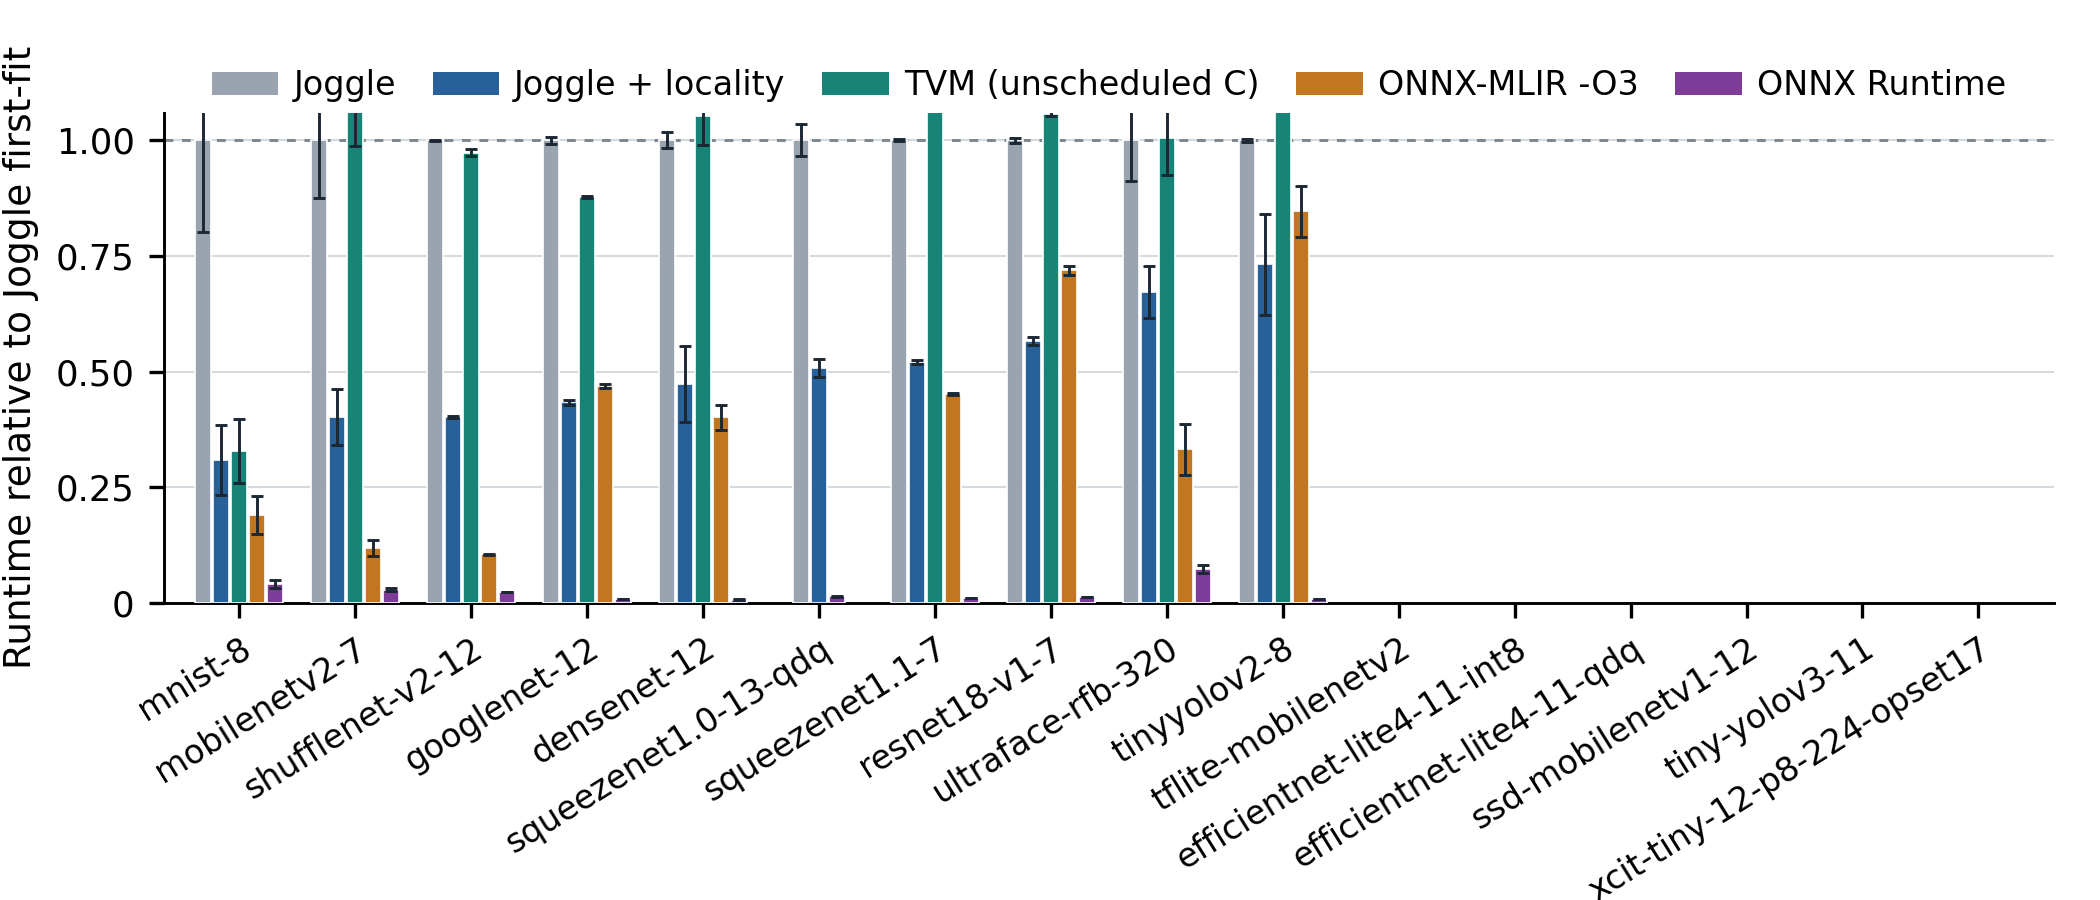
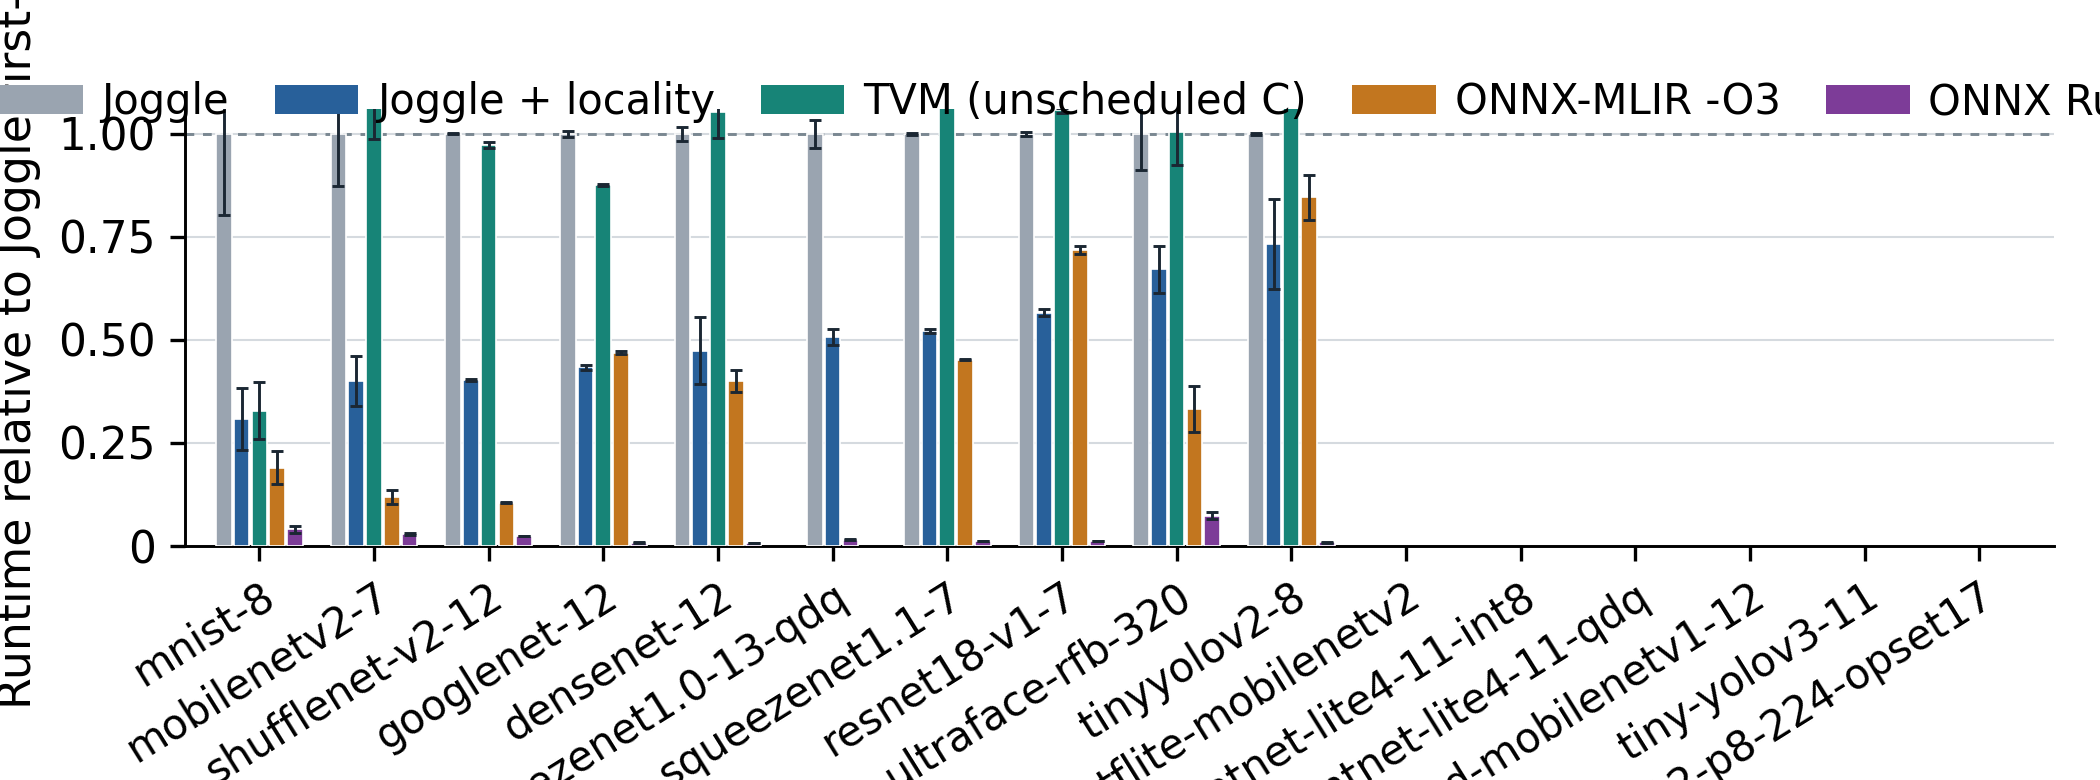
Make the refactoring claim match what the four cases show
The sixth objection was that the paper's survival claim rests on four
constructed refactorings and that the claim does not survive its own cases. It
was right, and the text said "survives source refactorings that break an
equivalent patch", which reads as a general result.

The four cases do not support that. Renaming a private helper ties, because both
routes still produce the validated plan. Renaming the capacity binding lets the
patch apply and the module boundary then rejects the unknown binding, which is a
validation win rather than an edit-survival one. Renaming nine local bindings
together is the clean case. Rewriting the selection guard is inapplicable to the
patch and makes the derivation's matcher reject the input, so it fails on both
sides. One clean win out of four.

The section now says so, case by case, and states the boundary the evidence
supports: the recipe reproduces the validated plan where a textual patch cannot
be applied at all, not wherever the surrounding source has changed. The abstract
drops the plural "refactorings" for the narrower mechanism-level statement.

A distribution over many scripted refactorings is what would settle this
properly, and it is not measured here: the existing control records six cases
and no generator produces more, so building one is separate work rather than a
rewording of what exists.

Fitting the correction again cost a page, and the conclusion paid for it: it now
[…]

Changed region(s): [[0.0, 0.0, 1.0, 1.0], [0.4024, 0.9846, 0.4333, 1.0]]

diff --git a/paper/submission/main.tex b/paper/submission/main.tex
@@ -25,9 +25,9 @@ representation shared with the programs they compile. A compiler function can be
 derived with its private helper closure, a single internal decision revised, and
 the resulting copy executed on a separate subject while the original remains
 callable and verified. The compiler validates each revision and can roll it back,
-so a derived procedure remains reproducible. It also survives source refactorings
-that break an equivalent patch, so a user or an agent can propose revisions with
-the same tools. Across widely used models, one source-defined locality policy
+so a derived procedure remains reproducible. A structurally addressed derivation also
+reproduces the validated plan where a textual patch cannot be applied at all, so
+a user or an agent can propose revisions with the same tools. Across widely used models, one source-defined locality policy
 reduces the run time of generated code on each of them, by $1.36\times$ to
 $3.24\times$. It requires no compiler rebuild and matches or beats TVM's
 unscheduled C target wherever that lowering could be built and validated.
@@ -708,15 +708,18 @@ A source-patch control extracts the same planner and private helpers, applies
 the same rule as a one-hunk patch, avoids rebuilding Joggle, and produces the
 same plan, so the storage reduction follows from the policy rather than from
 structural derivation. The distinction appears under four constructed
-refactorings, each editing something the change never mentions. Renaming a
-private helper leaves both routes with the same validated plan. Renaming the
-capacity binding still lets the patch apply, after which the module boundary
-rejects the unknown binding while the derivation is unaffected. Renaming nine
-local bindings together leaves the patch unable to apply, and rewriting the
-selection guard is likewise inapplicable, whereas the derivation either
-reproduces the validated plan or rejects the input and emits no output. The recipe follows def-use
-relationships rather than text, so it reproduces the validated plan exactly
-where the patch cannot be applied.
+refactorings, each editing something the change never mentions, and the count
+matters: only one of them separates the routes cleanly. Renaming a private
+helper ties, since both routes still produce the validated plan. Renaming the
+capacity binding lets the patch apply but the module boundary then rejects the
+unknown binding, which is a validation win rather than an edit-survival one.
+Renaming nine local bindings together is the clean case: the patch cannot apply
+while the derivation reproduces the validated plan. Rewriting the selection
+guard is inapplicable to the patch and makes the derivation's matcher reject the
+input, so that case fails on both sides. The recipe follows def-use
+relationships rather than text, and on this evidence it reproduces the validated
+plan only where a textual patch cannot be applied, not wherever the surrounding
+source has changed.
 
 % [claim:C-derive-boundary] [evidence:E-reuse-check,E-reuse-control]
 Five decision mutations, including disjunction and altered capacity writeback,
@@ -1114,10 +1117,10 @@ own after a rebuild; maintenance cost is unmeasured on either side. The planner 
 MobileNetV2 trace show complementary uses, not a combined benefit.
 
 \paragraph{Shared structure and specialized meaning.}
-Common structure does not make domain semantics interchangeable: repacking
-bytes behind an unchanged pointer signature passes resolution yet can violate
-a kernel's expectations, so modules and algorithm-specific oracles establish
-such properties. Joggle shares editing facilities, not domain semantics.
+Common structure does not make domain semantics interchangeable: repacking bytes
+behind an unchanged pointer signature passes resolution yet can violate a
+kernel's expectations, so oracles, not the representation, establish such
+properties.
 
 \paragraph{Editability and cost.}
 Derivation copies helper closures and revision-keyed snapshots consume memory.
@@ -1131,21 +1134,16 @@ worthwhile only once that baseline is competitive.
 \paragraph{Deployment and evidence.}
 Model oracles establish agreement on recorded inputs, not dataset-level
 accuracy, and support for dynamic shapes, stateful execution, concurrent
-devices, and distributed placement remains incomplete. The same-host comparison
-above shows what the substrate does and does not buy: loop reordering is now a
-measured source-level change, and the rest of the kernel checklist remains a
-source-defined selection or emission procedure. This paper evaluates the route
-by which that work enters, not how far it runs.
+devices, and distributed placement remains incomplete. This paper evaluates the route by which such work enters, not how far it runs.
 
 \section{Conclusion}
 Joggle treats a source-defined compiler algorithm body as a reusable program
-artifact: a derivation copies the definition and its private helper closure,
-admits an internal structural edit, and executes on a separate subject while the
-original stays callable. The planner and preparation cases carry such edits to
-checked artifacts, and a matched control reaches the same artifact through TVM's
-source route at the cost of a rebuild that derivation avoids. The claim is
-bounded by the source-patch control and by compilation and inference costs that
-remain high.
+artifact: a derivation copies the definition with its private helper closure,
+edits it structurally, and runs the copy on a separate subject while the
+original stays callable. The planner and preparation cases reach checked
+artifacts, and a matched control reaches the same artifact through TVM's source
+route at the cost of a rebuild derivation avoids. The source-patch control and
+the measured compile cost bound the claim.
 
 \bibliographystyle{ACM-Reference-Format}
 \bibliography{../references}

diff --git a/paper/scripts/render_runtime.py b/paper/scripts/render_runtime.py
@@ -98,8 +98,8 @@ def measured():
 def main():
     # matplotlib defaults: sans-serif, the standard look for a venue figure.
     plt.rcParams.update({
-        "font.size": 8.5, "axes.labelsize": 9, "xtick.labelsize": 8,
-        "ytick.labelsize": 8.5, "legend.fontsize": 8, "axes.linewidth": 0.7,
+        "font.size": 10.5, "axes.labelsize": 11, "xtick.labelsize": 10,
+        "ytick.labelsize": 10.5, "legend.fontsize": 10, "axes.linewidth": 0.7,
         "pdf.fonttype": 42, "ps.fonttype": 42, "savefig.bbox": None,
         "figure.dpi": 150,
     })
@@ -108,8 +108,8 @@ def main():
     order.sort(key=lambda m: runs[m]["locality"]["median"])
     order += [m for m in pinned() if m not in runs]
 
-    fig = plt.figure(figsize=(7, 3.0))
-    ax = fig.add_axes([.078, .330, .900, .545])
+    fig = plt.figure(figsize=(7, 2.6))
+    ax = fig.add_axes([.088, .300, .890, .560])
 
     for index, model in enumerate(order):
         variants = runs.get(model)
